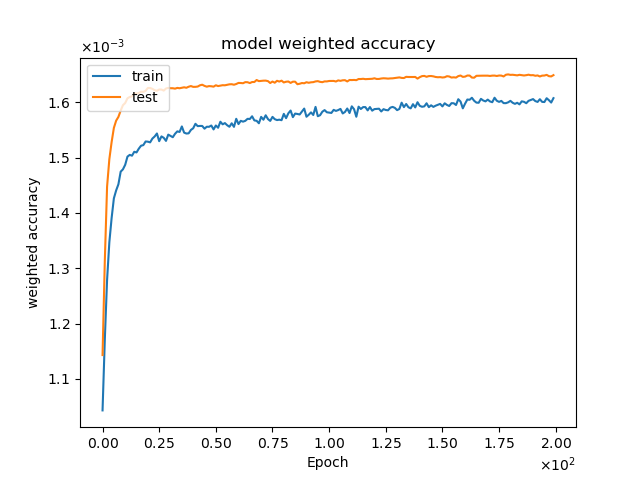
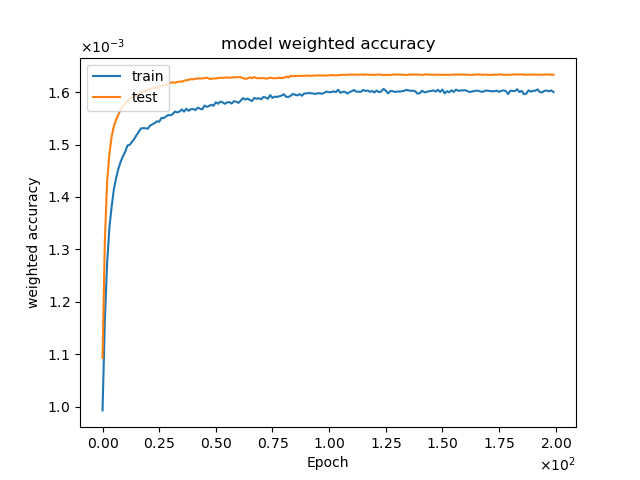
New function to hist prediction of events + purity plot

diff --git a/NN_current.py b/NN_current.py
@@ -6,12 +6,15 @@ import math
 import sys
 import matplotlib
 import glob
-
+import keras.backend as K
 ###time measurement
 from timeit import default_timer as timer
 ###
 
 from keras.models import Sequential, Model
+
+from keras.callbacks import ReduceLROnPlateau, ModelCheckpoint
+#from keras.utils import plot_model
 from keras.layers import Dense, Input, BatchNormalization, Dropout, Activation
 from keras import metrics
 from keras.optimizers import SGD, Adam
@@ -21,6 +24,7 @@ from sklearn.model_selection import train_test_split
 from sklearn.metrics import roc_curve, auc
 from sklearn.preprocessing import StandardScaler
 from sys import argv
+from scipy import stats
 #Loading the packages for handling the data
 import uproot as ur
 import pandas 
@@ -77,12 +81,13 @@ if not os.path.exists(array_path):
     os.makedirs(array_path)
 
 mysavedata = '/cephfs/user/s6pinogg/PietBachelor/Histo_Data/'
-
+eventHistpath = '/cephfs/user/s6pinogg/PietBachelor/Histo_Event/'
 
 
 if not os.path.exists(mysavedata):
     os.makedirs(mysavedata)
-
+if not os.path.exists(eventHistpath):
+    os.makedirs(eventHistpath)
 
 
 
@@ -122,7 +127,7 @@ class neuralNetworkEnvironment(object):
         #All information for the length of the training. Beware that epochs might only come into the pretraining
         #Iterations are used for the adversarial part of the training
         #If you want to make the training longer you want to change these numbers, there is no early stopping atm, feel free to add it
-        self.discriminator_epochs = 500
+        self.discriminator_epochs = 2200
         self.batchSize = 512
         #Setup of the networks, nodes and layers
         self.discriminator_layers = 3
@@ -132,7 +137,7 @@ class neuralNetworkEnvironment(object):
         self.discriminator_lr = 0.009
         self.discriminator_momentum = 0.9
         self.discriminator_optimizer = SGD(lr = self.discriminator_lr, momentum = self.discriminator_momentum)
-        self.discriminator_optimizer_adam = Adam(lr = self.discriminator_lr,beta_1=0.9, beta_2=0.999, epsilon=1e-8, decay = self.discriminator_lr/self.discriminator_epochs,amsgrad=True)
+        self.discriminator_optimizer_adam = Adam(lr = 1e-5,beta_1=0.9, beta_2=0.999, epsilon=1e-8, decay = self.discriminator_lr/self.discriminator_epochs,amsgrad=True)
         self.discriminator_dropout = 0.2
         self.discriminator_loss = 'binary_crossentropy'
         self.validation_fraction = 0.2
@@ -185,6 +190,7 @@ class neuralNetworkEnvironment(object):
         ### Signal 
         self.events_signal = self.read_root(data_signal,self.signal_sample,self.variables)
         self.weight_signal = self.read_root(data_signal,self.signal_sample,'weight_nominal') * 139
+        self.weight_signal = np.absolute(self.weight_signal)
         ###Background
         ##Diboson
         self.events_background_diboson = self.read_root(data_background_diboson,self.background_sample,self.variables)
@@ -233,6 +239,13 @@ class neuralNetworkEnvironment(object):
         self.events_background = self.ConArrays([self.events_background_diboson,self.events_background_ttV,self.events_background_ST,self.events_background_ttbar_all])
         self.weight_background = self.ConArrays([self.weights_background_diboson,self.weights_background_ttV,self.weights_background_ST,self.weights_background_ttbar_all])
         self.weight_background = np.absolute(self.weight_background)
+
+        ### Background for later use (Histogram etc)
+        self.events_background_ttZ_tWZ = np.concatenate([self.events_background_ttZ,self.events_background_tWZ])
+        self.events_background_ttZ_tWZ_ttH = np.concatenate([self.events_background_ttZ,self.events_background_tWZ,self.events_background_ttH])
+        self.events_background_ttbar_tW = np.concatenate([self.events_background_ttbar_all,self.events_background_tW])
+
+
         ## Check if the Event yields are correct 
         print('Events tZQ:' + '%.2f'%(self.weight_signal.sum()))
         print('Events diboson:' + '%.2f'%self.weights_background_diboson.sum())
@@ -265,12 +278,14 @@ class neuralNetworkEnvironment(object):
         self.weight_training, self.weight_validation = train_test_split(np.concatenate((self.weight_signal, self.weight_background)), test_size = self.validation_fraction, random_state = self.seed)
         #Setting up a scaler
         #A scaler makes sure that all variables are normalised to 1 and have the same order of magnitude for that reason
-        scaler = StandardScaler()
-        self.sample_training = scaler.fit_transform(self.sample_training)
-        self.sample_validation = scaler.fit_transform(self.sample_validation)
+        self.scaler_test = StandardScaler().fit(self.sample_training)
+        #self.scaler = StandardScaler()
+        self.sample_training = self.scaler_test.transform(self.sample_training)
+        self.sample_validation = self.scaler_test.transform(self.sample_validation)
 
 #-----------------------------------------------------------------------------------------------------------------------------------------------------------------------------------------------------------
-        
+
+
         ## Now we want to build our Neural Network
     def My_DiscrimatorBuild(self):
         self.model = Sequential()
@@ -282,13 +297,15 @@ class neuralNetworkEnvironment(object):
             self.model.add(Dropout(self.discriminator_dropout))
         self.model.add(Dense(1,activation='sigmoid'))
         self.model.compile(loss=binary_crossentropy,metrics=['binary_accuracy'],weighted_metrics = [metrics.binary_accuracy],optimizer = self.discriminator_optimizer)
+        #plot_model(self.model, to_file=self.output_job+'model.png')
         self.model.summary()
 
 
 
     def trainDiscriminator(self):
         # With our Neural Network set up, we can now fit the training and test data
-        self.discriminator_history = self.model.fit(self.sample_training, self.target_training.ravel(), epochs=self.discriminator_epochs, batch_size = self.batchSize, sample_weight = self.weight_training.ravel(), validation_data = (self.sample_validation, self.target_validation, self.weight_validation.ravel()))
+        reduce_lr = ReduceLROnPlateau(monitor='binary_accuracy',factor = 0.2,patience=5,min_lr=1e-5)
+        self.discriminator_history = self.model.fit(self.sample_training, self.target_training.ravel(), epochs=self.discriminator_epochs, batch_size = self.batchSize, sample_weight = self.weight_training.ravel(), validation_data = (self.sample_validation, self.target_validation, self.weight_validation.ravel()),callbacks=[reduce_lr])
         self.discriminator_history_array.append(self.discriminator_history)
         print(self.discriminator_history.history.keys())
 
@@ -513,6 +530,17 @@ class neuralNetworkEnvironment(object):
         plt.gcf().clear()
 
     def purityPlot(self):
+
+
+        (n_s,bins_s,patches_s) = plt.hist(self.signal_histo_test, range=[0., 1.], bins=50,density=True)
+        (n_b,bins_b,patches_b) = plt.hist(self.background_histo_test, range=[0., 1.], bins=50,density=True)
+        plt.gcf().clear()
+        nbins= np.linspace((bins_s[0]+bins_s[1])/2,(bins_s[-1]+bins_s[-2])/2,50)
+        self.purity = n_s/(n_s+n_b)
+
+        x = np.linspace(0,1,500)
+        y = x
+
         ax = plt.subplot(111)
         ax.tick_params(direction='in')
         ax.xaxis.set_minor_locator(AutoMinorLocator())
@@ -520,13 +548,10 @@ class neuralNetworkEnvironment(object):
         ax.xaxis.set_ticks_position('both')
         ax.yaxis.set_ticks_position('both')
         ax.tick_params(direction='in',which='minor', length=2)
-
-        self.purity = (self.model_prediction_test+1)/2
-        x = np.linspace(0,1,500)
-        y = (x+1)/2
+        
         plt.xlim(0,1)
-        plt.plot(x,y,color='r',linewidth=2)
-        plt.plot(self.model_prediction_test[::1000],self.purity[::1000],color='blue',marker='x',linestyle ='None',markersize=4.5)
+        plt.plot(x,y,color='r',linewidth=1)
+        plt.plot(nbins,self.purity,color='blue',marker='+',linestyle ='None',markersize=4.0)
         plt.xlabel('Network Output')
         plt.ylabel('Purity')
         plt.gcf().savefig(self.output_job + 'purity.png')   
@@ -534,10 +559,9 @@ class neuralNetworkEnvironment(object):
         
 
 
-
+    ## Function to plot Histogram of Variables, with parameters s.t. you can hist any variable
     def HistObject(self,Xaxisbins,Yaxisbins,range1,range2,bins,labelxaxis,savelabel,numbervariable):
-        self.events_background_ttZ_tWZ = np.concatenate([self.events_background_ttZ,self.events_background_tWZ])
-        self.events_background_ttbar_tW = np.concatenate([self.events_background_ttbar_all,self.events_background_tW])
+
 
         self.hist_tZq = self.events_signal.transpose() 
         self.hist_diboson = self.events_background_diboson.transpose() 
@@ -583,18 +607,22 @@ class neuralNetworkEnvironment(object):
 
         plt.gcf().savefig(mysavedata + savelabel +'.png')
         plt.gcf().clear()
+    ## Histogram of Neural Network output 
+    def histPrediction(self,event,colors,eventlabel,savelabel):
 
-    def histPrediction(self):
-        self.events_signal = StandardScaler().fit_transform(self.events_signal)
-        self.events_background = StandardScaler().fit_transform(self.events_background)
-
-        ax1 = plt.subplot(111)
-        self.pred_hist = self.model.predict(self.events_signal,batch_size = self.batchSize).ravel()
-        self.pred_hist_2 = self.model.predict(self.events_background,batch_size = self.batchSize).ravel()
-        print(self.pred_hist)
-        plt.hist(self.pred_hist, range=[0., 1.], linewidth = .75, bins=30, histtype="step", color='magenta',label='tZq',density = True)
-        plt.hist(self.pred_hist_2, range=[0., 1.], linewidth = .75, bins=30, histtype="step", color='blue',label='background',density = True)
-        plt.gcf().savefig(self.output_job + 'test.png')
+        ax = plt.subplot(111)
+        ax.tick_params(direction='in')
+        ax.xaxis.set_minor_locator(AutoMinorLocator())
+        ax.yaxis.set_minor_locator(AutoMinorLocator())
+        ax.xaxis.set_ticks_position('both')
+        ax.yaxis.set_ticks_position('both')
+        ax.tick_params(direction='in',which='minor', length=2)
+        self.pred_hist = self.model.predict(self.scaler_test.transform(event),batch_size = self.batchSize).ravel()
+        plt.hist(self.pred_hist, range=[0., 1.], linewidth = 2, bins=30, histtype="step", color=colors,label=eventlabel,density = True)
+        plt.xlim(0,1)
+        plt.xlabel('NN output')
+        plt.legend()
+        plt.gcf().savefig(eventHistpath + savelabel + '.png')
         plt.gcf().clear()
         
     def Runtime(self,start,stop):
@@ -616,9 +644,15 @@ training.plotWeightedAccuracy()
 training.plotAccuracy()
 training.purityPlot()
 training.ParamstoTxt()
-training.histPrediction()
+
 
 ###
+training.histPrediction(training.events_signal,'magenta','tZq','tZq')
+training.histPrediction(training.events_background_diboson,'darkturquoise','Diboson','diboson')
+training.histPrediction(training.events_background_ZJets,'orange','Z+Jets','ZJets')
+training.histPrediction(training.events_background_ttbar_tW,'red',r'$t\bar{t} + tW$','ttbartw')
+training.histPrediction(training.events_background_ttZ_tWZ_ttH,'lime',r'$t\bar{t}Z + t\bar{t}H + tWZ$','ttvtthtwz')
+training.histPrediction(training.events_background_tt2l,'red',r'$t\bar{t} 2l$','ttbar2l')
 #self.variables = np.array(['m_b_jf','eta_jf','q_lW','eta_lW','pT_W','pT_lW','m_Z','eta_Z','dR_jf_Z','pT_jf','pT_jr','eta_jr','pT_Z','m_met','m_top','mT_W'])
 #training.HistObject(10,5,0,800,16,'$m(bj_F)$','m_b_jf',0)
 #training.HistObject(10,5,0,5,15,'$\eta(j_f)$','eta_jf',1)
